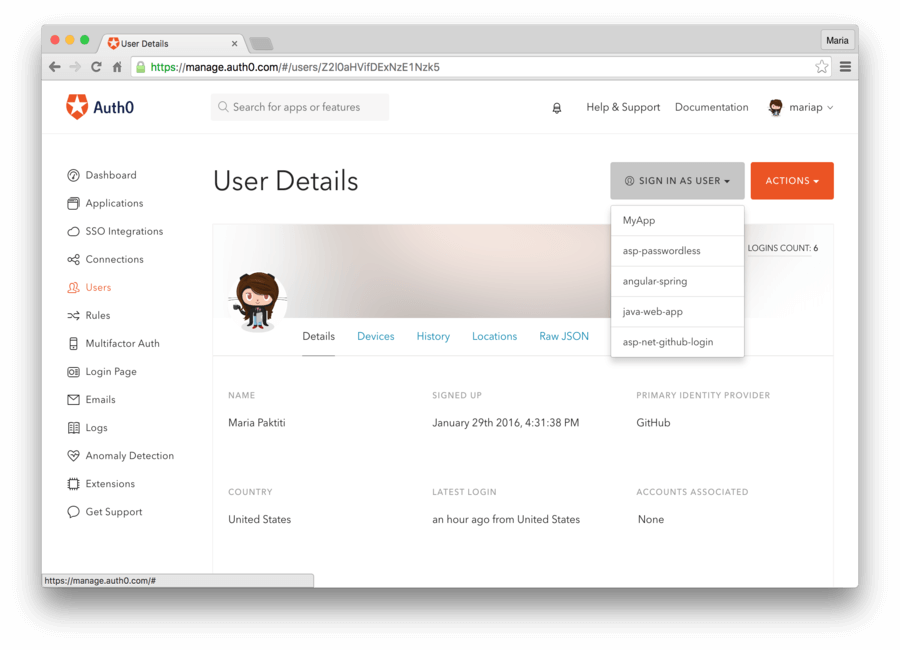
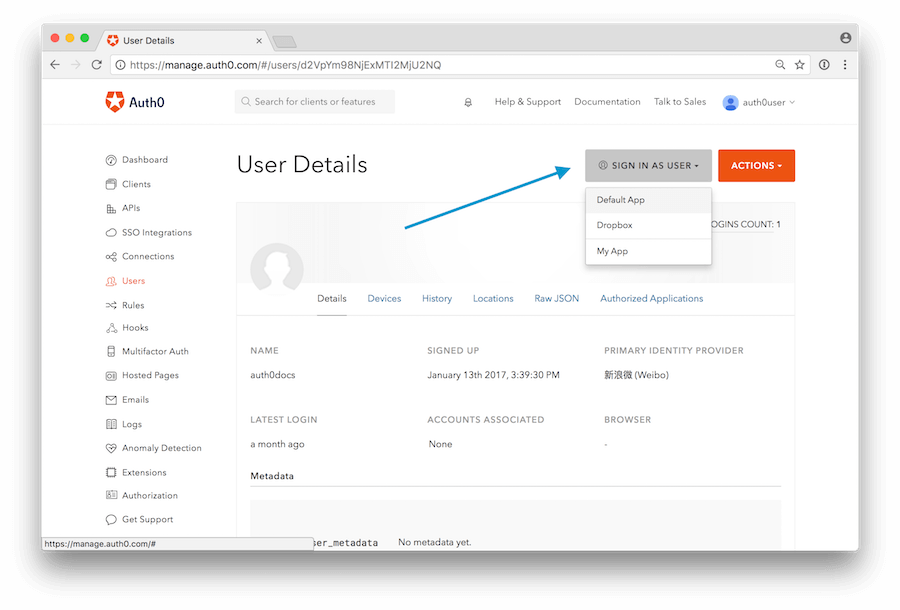
Impersonation doc add details on Advanced Settings
https://trello.com/c/axp9pQT0/955-update-impersonation-screenshots

diff --git a/articles/user-profile/user-impersonation.md b/articles/user-profile/user-impersonation.md
@@ -19,7 +19,7 @@ Auth0 provides a _Sign in As_ feature for user impersonation, and provides the f
 
 Navigate to the [Users](${manage_url}/#/users) page in the Management Dashboard and select the user you want to login as. Click on the __Sign in as User__ and select the client you want to log into using the dropdown menu.
 
-![](/media/articles/user-profile/signin-as-user-01.png)
+![Click Sign in as User](/media/articles/user-profile/signin-as-user-01.png)
 
 ::: panel-info I can't see this button
 In order to see this button the following conditions should apply:
@@ -30,9 +30,22 @@ In order to see this button the following conditions should apply:
 
 A popup displays the URL to be used in order to impersonate the user. You can choose either to copy the URL into the clipboard (white button) or open it in a separate browser tab/window (blue button).
 
-![](/media/articles/user-profile/signin-as-user-02.png)
+![Links for User Impersonation](/media/articles/user-profile/signin-as-user-02.png)
 
-> Impersonating a user using the Management Dashboard will not return a [JWT](/jwt) to your application by default. You can achieve this by calling the [impersonation endpoint](/api/authentication/reference#impersonation) manually and adding `additionalParameters.scope: "openid"` to the request body.
+> Impersonating a user using the Management Dashboard will not return a [JWT](/jwt) to your application by default. You can achieve this by calling the [impersonation endpoint](/api/authentication/reference#impersonation) manually or in the [Advanced Settings](#advanced-settings). If calling the endpoint manually add `additionalParameters.scope: "openid"` to the request body.
+
+### Advanced Settings
+
+When impersonating a user in Management Dashboard, after clicking __Sign in as User__ you will see a link to expand __Advanced Settings**.
+
+![Advanced Settings](/media/articles/user-profile/impersonation-adv.png)
+
+This reveals fields to make it easier to [impersonate a User using the Impersonation API](#impersonate-a-user-using-the-impersonation-api):
+
+* **Response mode**: `GET` or `POST`. This is only for server side apps, client side apps default to `GET`.
+* **Response type**: `Code` or `Token`. This is only for server side apps, client side apps default to `Token`.
+* **Scope**: This field will have `openid` in it is as default, [other scopes](/scopes) can be added as a list using whitespace as separator. 
+* **State**: The `state` is an optional parameter. Learn more about [using the state parameter here](/protocols/oauth2/oauth-state).
 
 ## Impersonate a User using the Impersonation API
 
